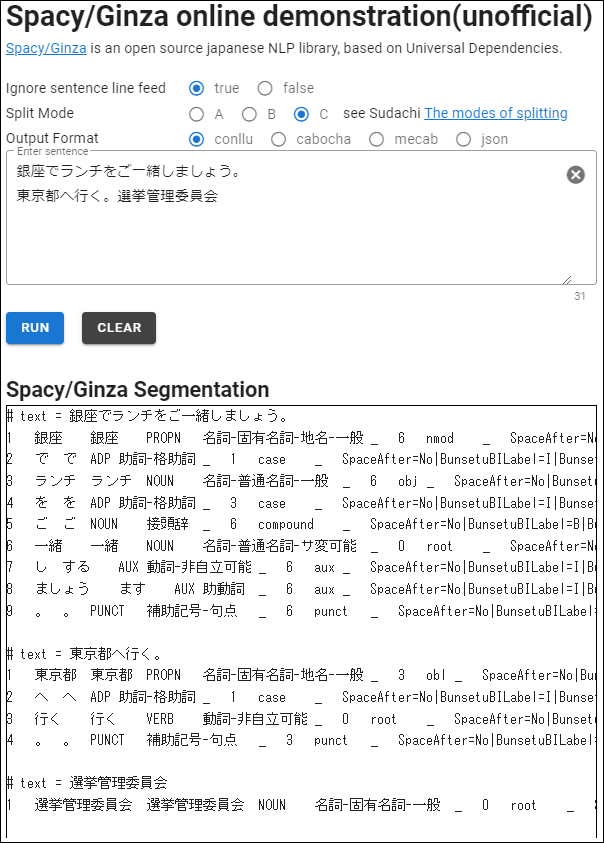
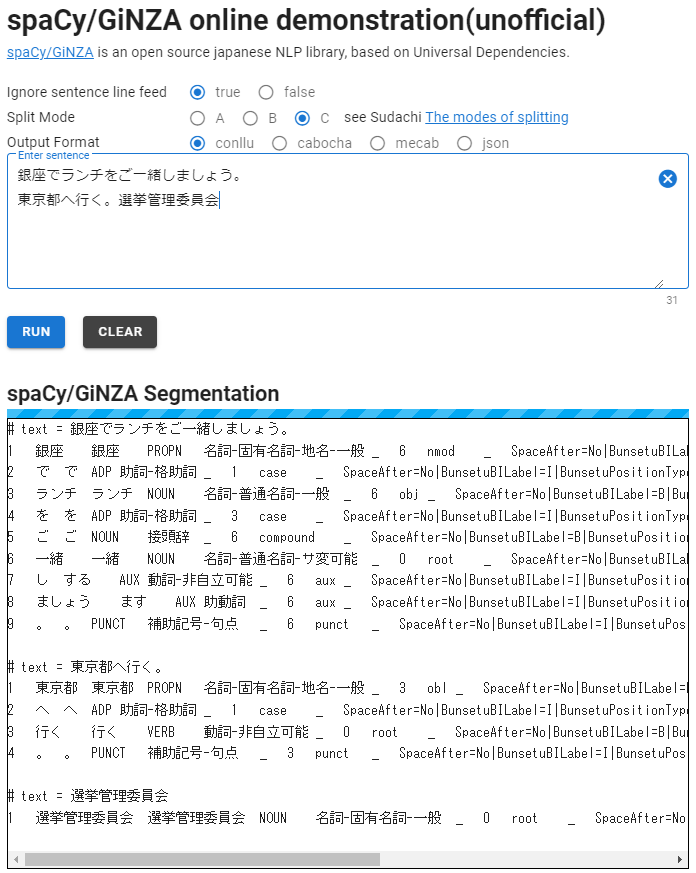
fix capitalize fix notice

diff --git a/docs/index.html b/docs/index.html
@@ -2,7 +2,7 @@
 <html>
 
 <head>
-  <title>Spacy/Ginza online demonstration</title>
+  <title>spaCy/GiNZA online demonstration</title>
   <meta name="viewport" content="width=device-width, initial-scale=1, maximum-scale=1, user-scalable=no, minimal-ui">
   <link href="https://fonts.googleapis.com/css?family=Roboto:100,300,400,500,700,900" rel="stylesheet">
   <link href="https://cdn.jsdelivr.net/npm/@mdi/font@6.x/css/materialdesignicons.min.css" rel="stylesheet">
@@ -27,8 +27,8 @@
     <v-app>
       <v-main>
         <v-container>
-          <h1>Spacy/Ginza online demonstration(unofficial)</h1>
-          <p><a target="_blank" rel="noopener noreferrer" href="https://megagonlabs.github.io/ginza/">Spacy/Ginza</a>
+          <h1>spaCy/GiNZA online demonstration(unofficial)</h1>
+          <p><a target="_blank" rel="noopener noreferrer" href="https://megagonlabs.github.io/ginza/">spaCy/GiNZA</a>
             is an open source japanese NLP library, based on Universal Dependencies.</p>
           <v-radio-group hide-details class="ma-0" mandatory dense row v-model="ignoreLf">
             <div style="width: 200px">Ignore sentence line feed</div>
@@ -61,7 +61,7 @@
             Clear
           </v-btn>
           <template v-if="resultText||isLoading">
-            <h2 class="mt-8">Spacy/Ginza Segmentation</h2>
+            <h2 class="mt-8">spaCy/GiNZA Segmentation</h2>
             <v-progress-linear color="light-blue" height="10" :value="progress" striped></v-progress-linear>
             <pre style="overflow:auto; border: 1px solid #000000;min-height: 300px">{{ resultText }}</pre>
           </template>
@@ -69,9 +69,7 @@
           Source Code: <a target="_blank" rel="noopener noreferrer"
             href="https://github.com/chai3/spacy-ginza-online-demonstration">
             https://github.com/chai3/spacy-ginza-online-demonstration</a><br />
-          Online demo Web API: <a target="_blank" rel="noopener noreferrer"
-            href="https://github.com/chai3/spacy-ginza-online-demonstration">
-            https://spacy-ginza-online-demo.herokuapp.com/docs</a><br />
+          GiNZA v5.1(ja_ginza), spaCy v3.2, SudachiPy v0.6.2<br />
         </v-container>
       </v-main>
     </v-app>

diff --git a/README.md b/README.md
@@ -1,10 +1,10 @@
 # spacy-ginza-online-demonstration
 
 ## online demonstration(Github Pages)
-[Spacy/Ginza online demo pages](https://chai3.github.io/spacy-ginza-online-demonstration/)
+[spaCy/GiNZA online demo pages](https://chai3.github.io/spacy-ginza-online-demonstration/)
 
 ## Web API(Heroku)
-[Spacy/Ginza online demo Web API](https://spacy-ginza-online-demo.herokuapp.com/docs)
+[spaCy/GiNZA online demo Web API](https://spacy-ginza-online-demo.herokuapp.com/docs)
 
 ## Screenshot
 
